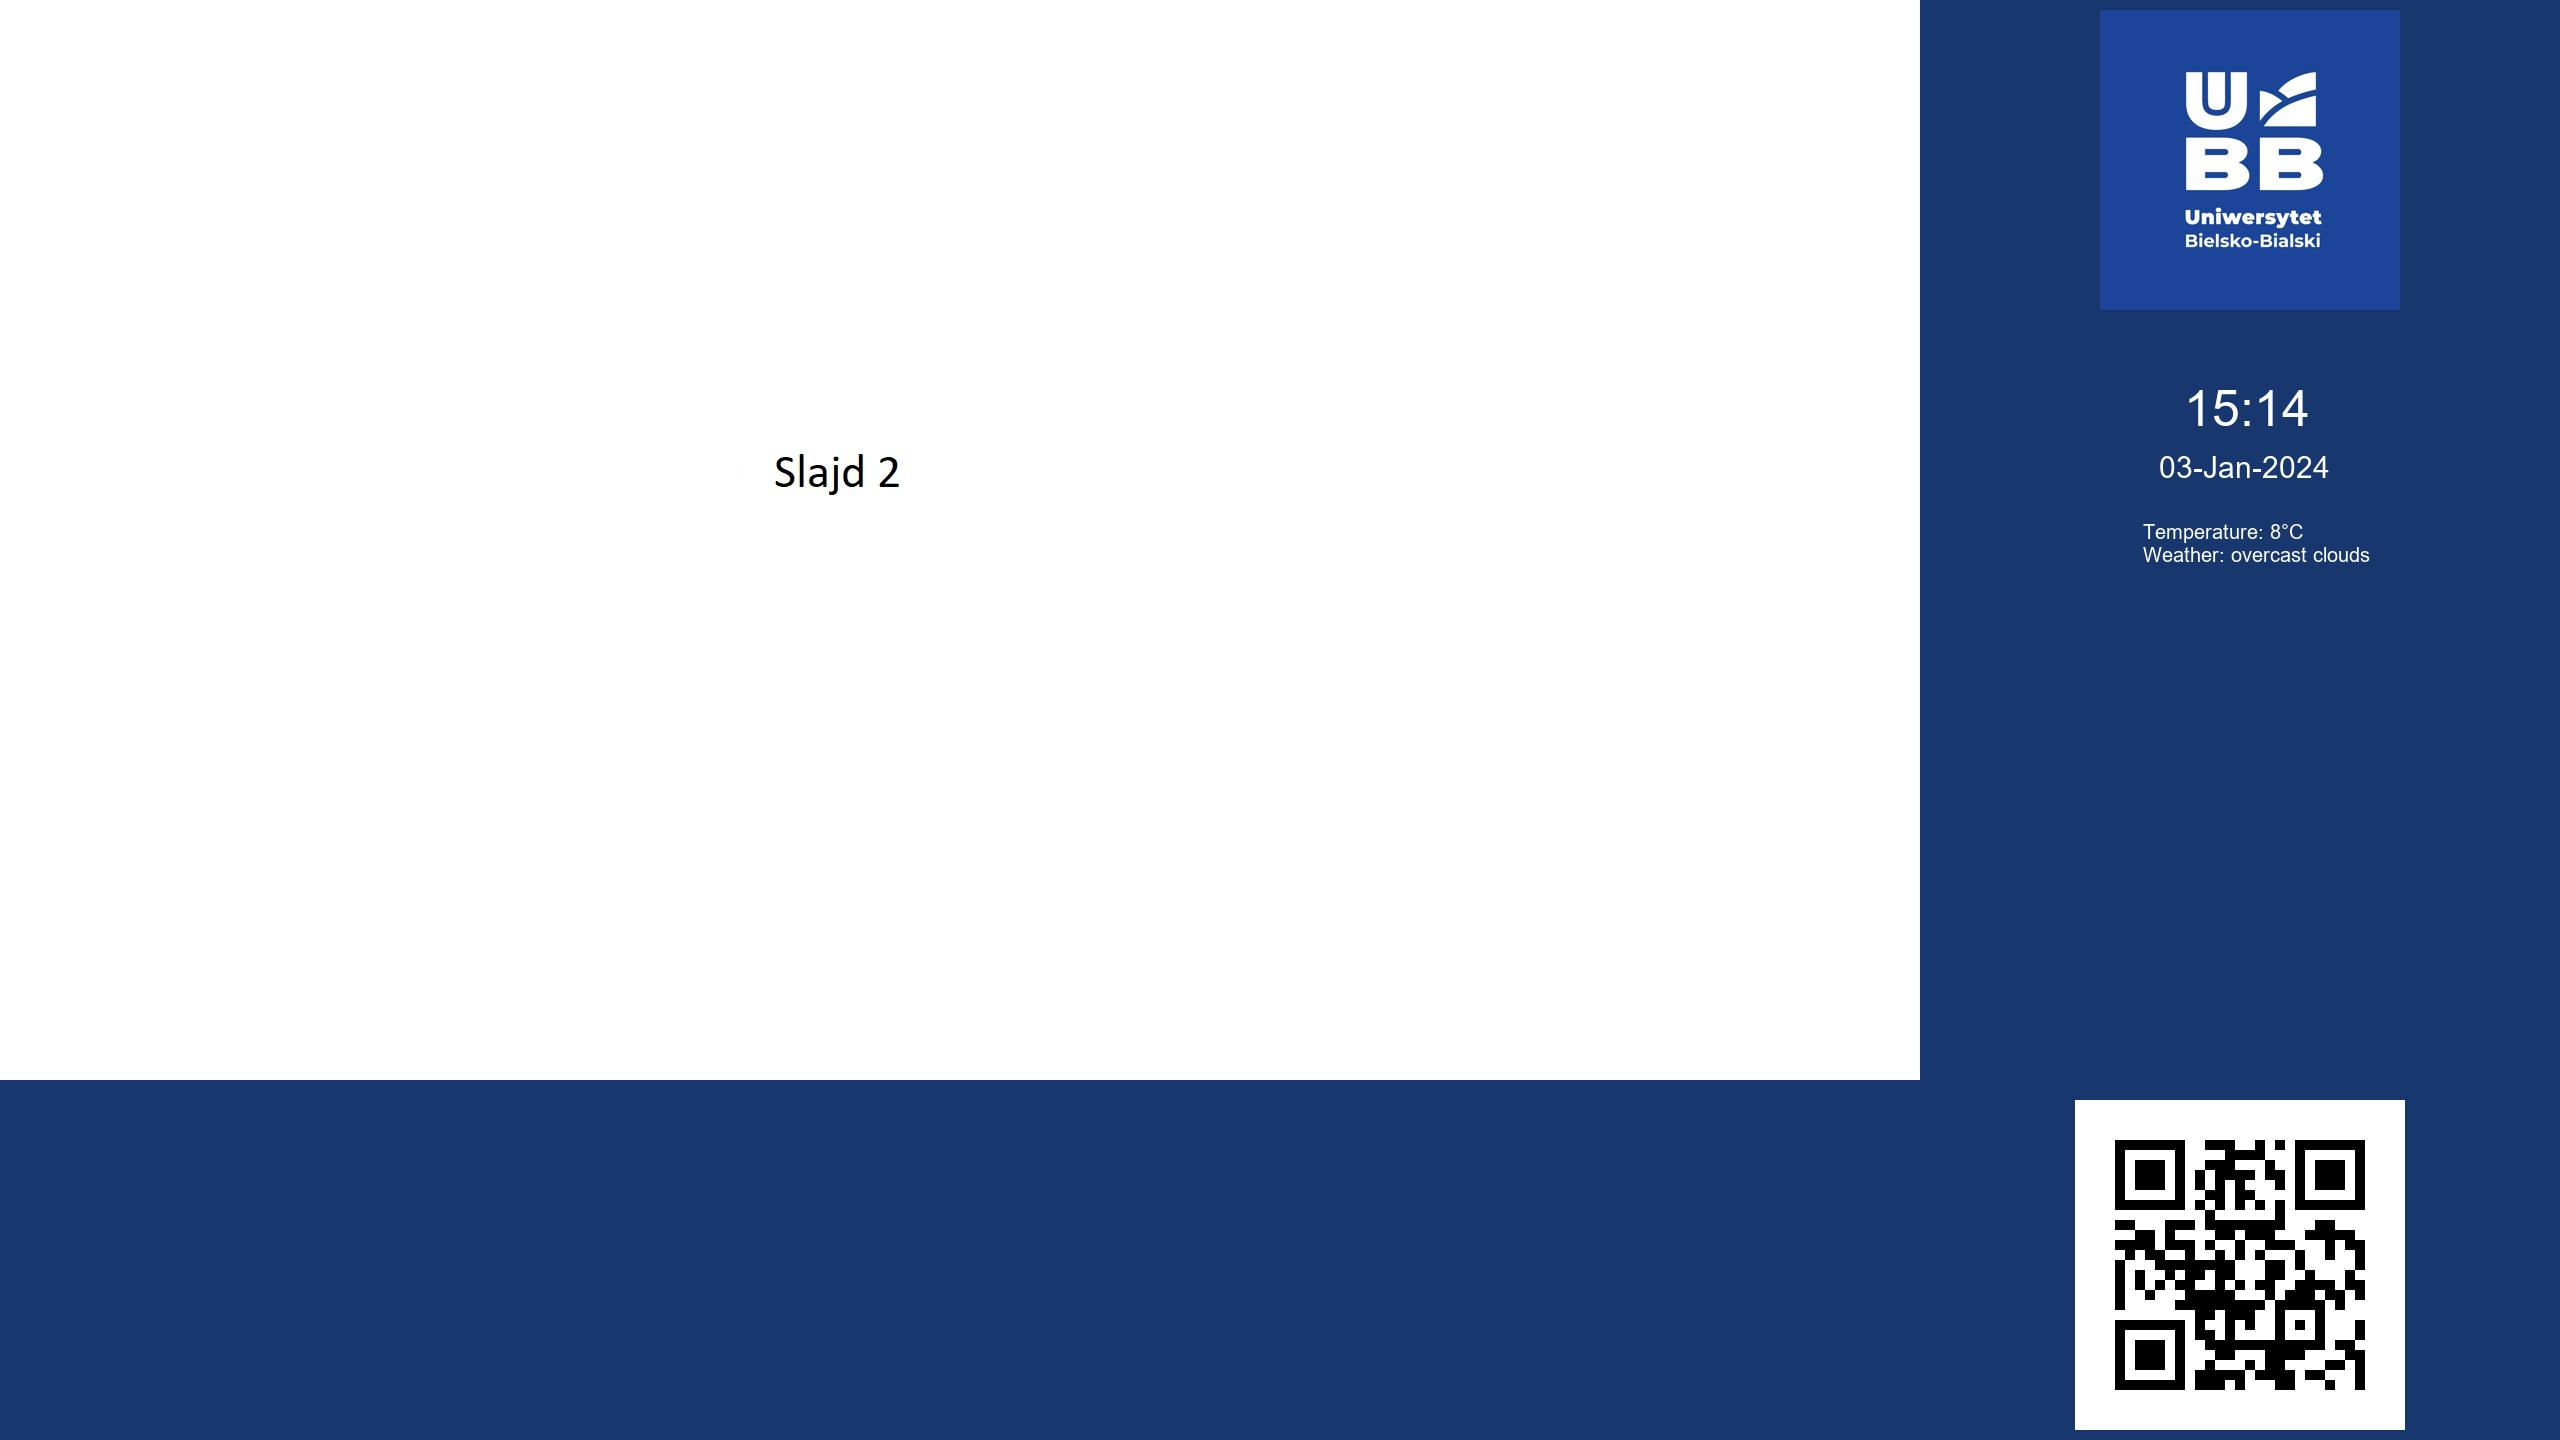
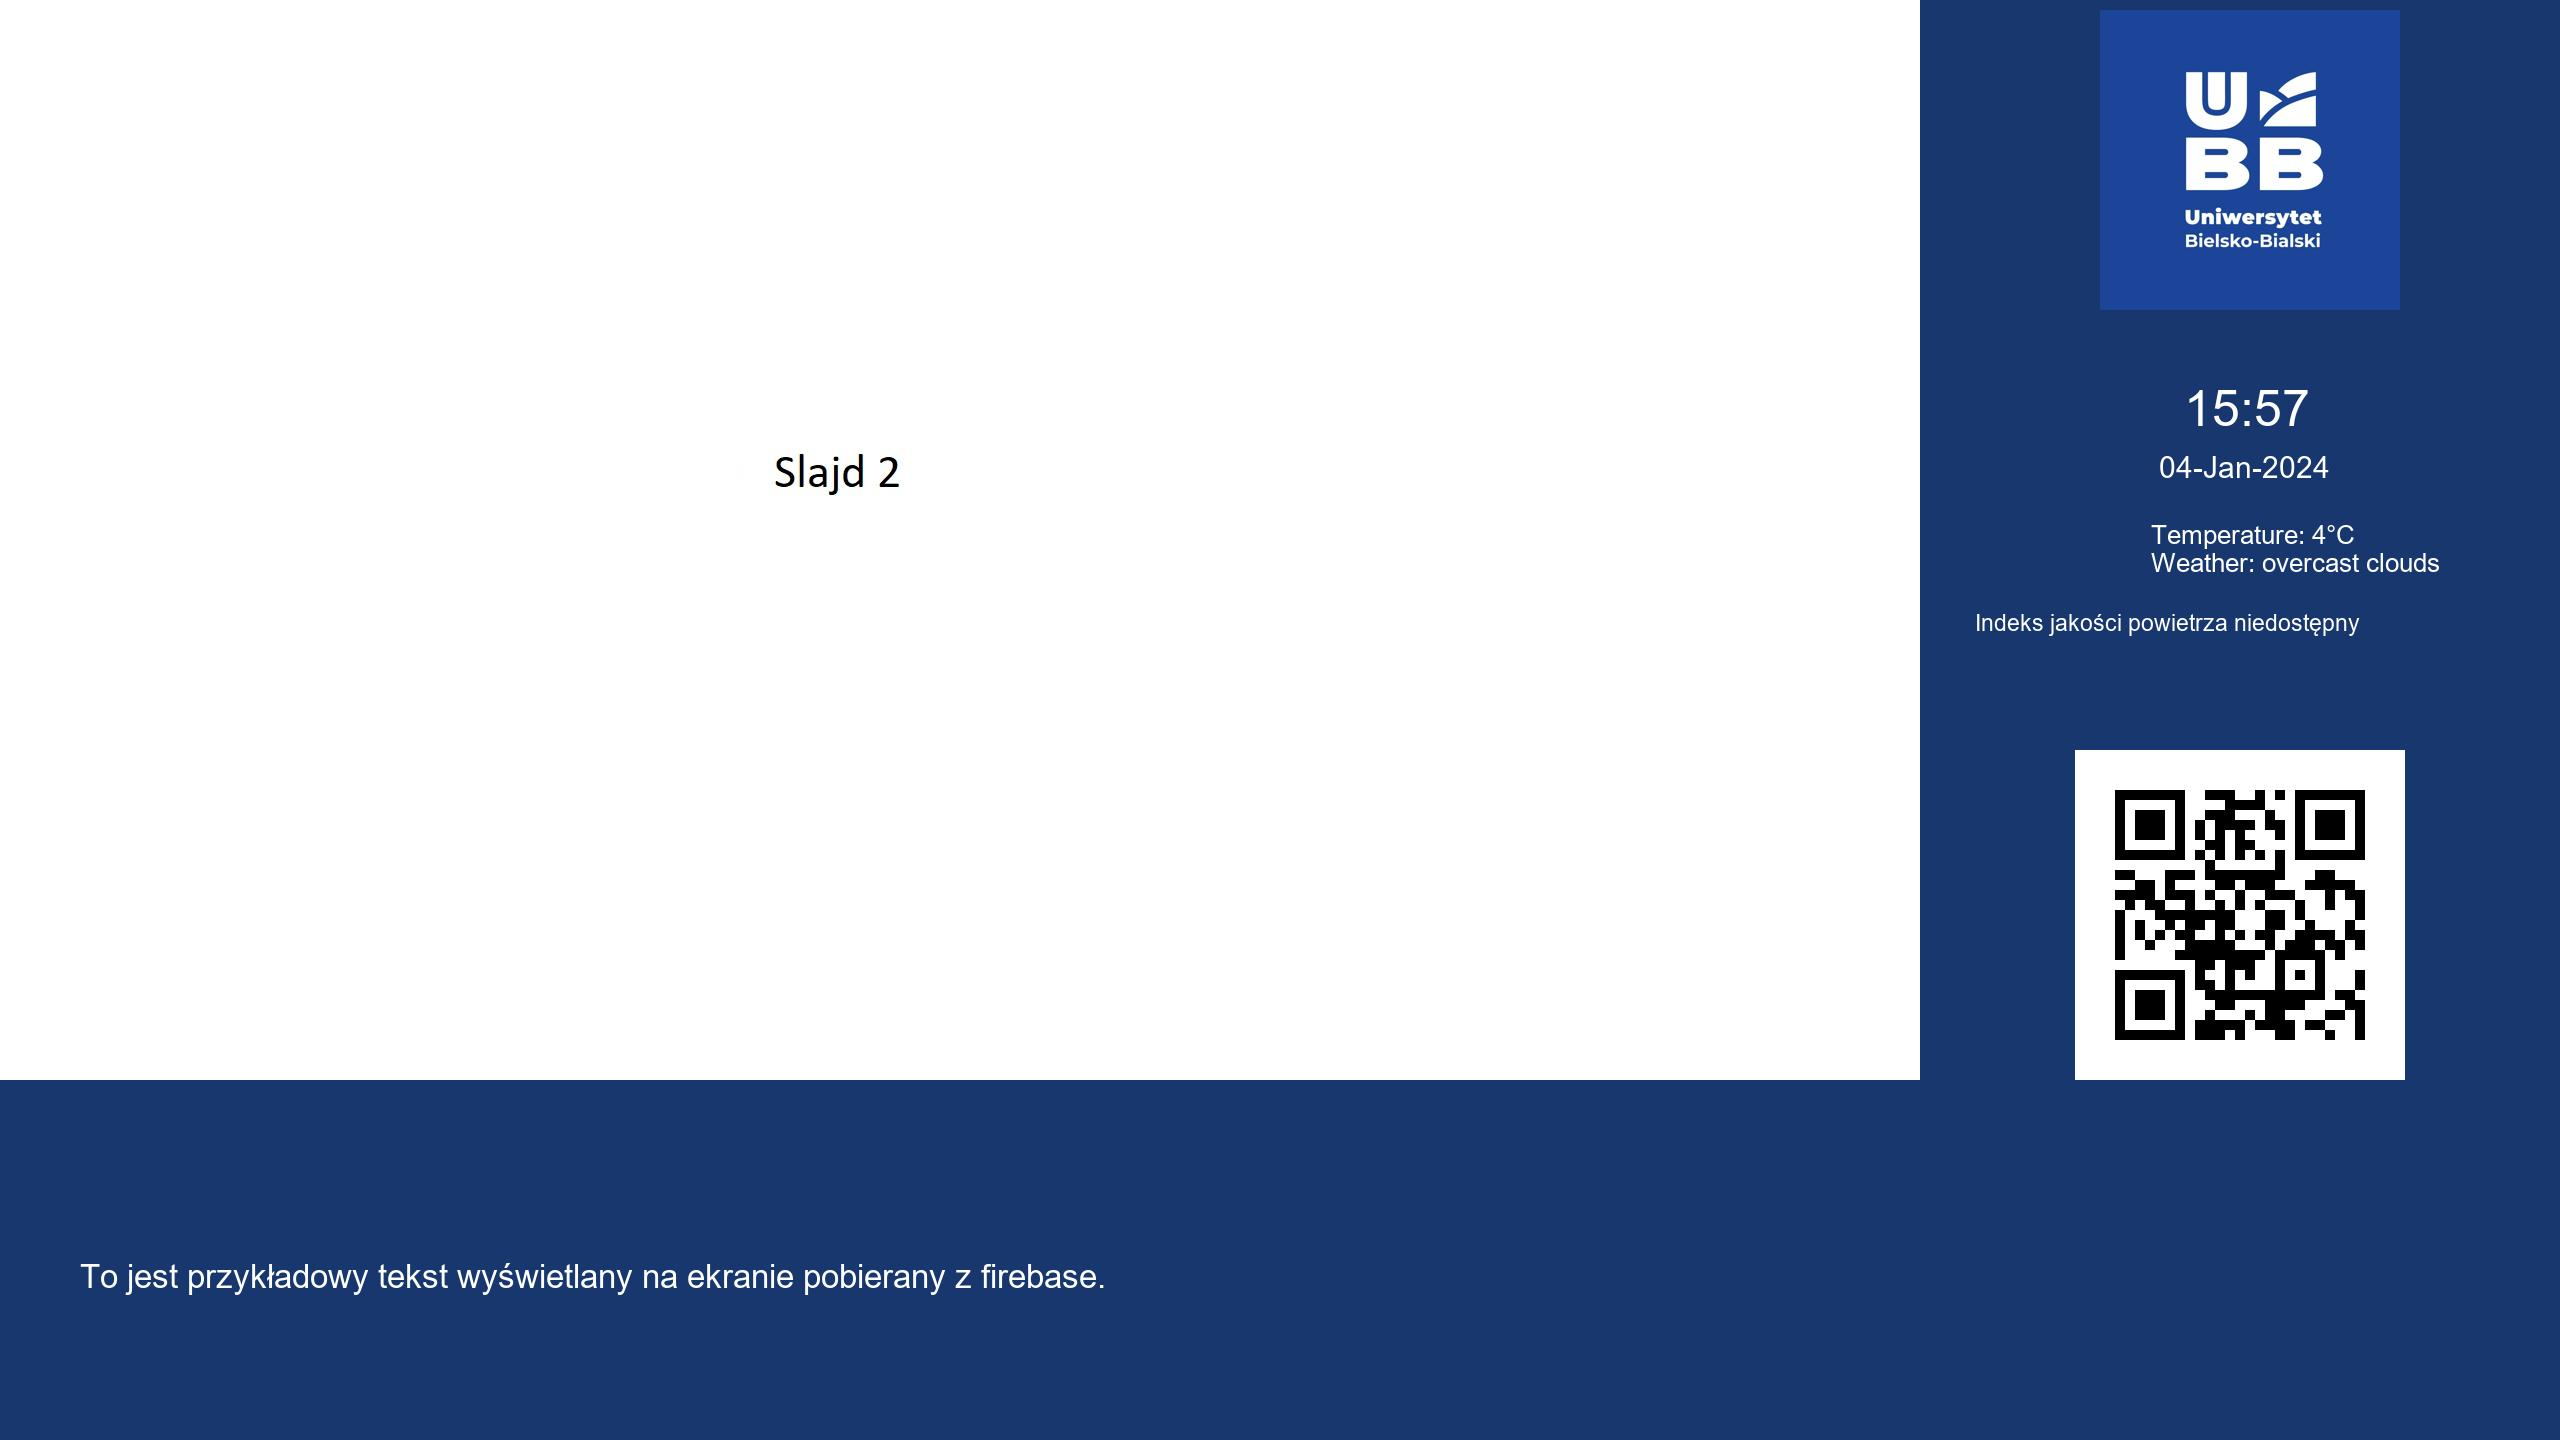
firebase text display + aqi display

diff --git a/project.py b/project.py
@@ -53,6 +53,17 @@ def generate_qr_code(link):
     qr_img = qr.make_image(fill_color="black", back_color="white")
     return qr_img
 
+def download_text_file_from_gcs(object_name):
+    # Local path to save the downloaded text file
+    local_path = os.path.join(local_folder, object_name)
+
+    # Download text file from GCS
+    bucket = client.get_bucket(bucket_name)
+    blob = bucket.blob(object_name)
+    blob.download_to_filename(local_path)
+
+    return local_path
+
 # Pygame initialization
 pygame.init()
 screen = pygame.display.set_mode((2560, 1440))
@@ -76,13 +87,36 @@ def display_image(file_path):
     draw.rectangle([(image.width, 0), (screen.get_width(), screen.get_height())], fill=border_color)
     draw.rectangle([(0, image.height), (screen.get_width(), screen.get_height())], fill=border_color)
 
+    text_file_name = "informationtext.txt"
+    text_file_path = download_text_file_from_gcs(text_file_name)
+
+    if os.path.exists(text_file_path):
+        with open(text_file_path, "r", encoding="utf-8") as text_file:
+            text_content = text_file.read()
+            text_font_size = 33
+            text_font = ImageFont.truetype("arial.ttf", text_font_size)
+            text_bbox = draw.textbbox((0, 0), text_content, font=text_font)
+            text_width, text_height = text_bbox[2] - text_bbox[0], text_bbox[3] - text_bbox[1]
+            padding_left = -240
+            draw.text((border_width + padding_left, screen.get_height() - text_height - 150), text_content, font=text_font, fill="white")
+
+
     # Weather information from OpenWeatherMap API
     weather_text = get_weather_data()
-    font_size = 20
+    font_size = 26
     font = ImageFont.truetype("arial.ttf", font_size)
     weather_text_bbox = draw.textbbox((0, 0), weather_text, font=font)
     weather_text_width, weather_text_height = weather_text_bbox[2] - weather_text_bbox[0], weather_text_bbox[3] - weather_text_bbox[1]
-    draw.text((screen.get_width() - weather_text_width - 190, border_height + 340), weather_text, font=font, fill="white")
+    draw.text((screen.get_width() - weather_text_width - 120, border_height + 340), weather_text, font=font, fill="white")
+
+    #Air quality display from iqair
+    air_quality_data = get_air_quality_data()
+    air_quality_font_size = 23
+    air_quality_font = ImageFont.truetype("arial.ttf", air_quality_font_size)
+    air_quality_text_bbox = draw.textbbox((0, 0), air_quality_data, font=air_quality_font)
+    air_quality_text_width, air_quality_text_height = air_quality_text_bbox[2] - air_quality_text_bbox[0], air_quality_text_bbox[3] - air_quality_text_bbox[1]
+    draw.text((screen.get_width() - air_quality_text_width - 200, border_height + 430), air_quality_data, font=air_quality_font, fill="white")
+
 
     # Time display
     current_time = datetime.now().strftime("%H:%M")
@@ -110,7 +144,7 @@ def display_image(file_path):
     qr_code = generate_qr_code(qr_code_link)
 
     # Paste the QR code onto the composite image
-    composite_image.paste(qr_code, (screen.get_width() - qr_code.width - 460, screen.get_height() - qr_code.height - 10))
+    composite_image.paste(qr_code, (screen.get_width() - qr_code.width - 460, screen.get_height() - qr_code.height - 360))
 
     # Temp image
     result_path = "result.jpg"
@@ -123,20 +157,37 @@ def display_image(file_path):
 
 # OpenWeatherMap API
 def get_weather_data():
-    api_key = '84cea28a50728eb44f7ccde38994cb77'
-    city_name = 'Chrzanów'  
+    api_keyweather = '84cea28a50728eb44f7ccde38994cb77'
+    city_name = 'Bielsko-Biała'  
 
-    api_url = f'http://api.openweathermap.org/data/2.5/weather?q={city_name}&appid={api_key}'
+    api_url = f'http://api.openweathermap.org/data/2.5/weather?q={city_name}&appid={api_keyweather}'
     response = requests.get(api_url)
     data = response.json()
 
-    # Information
+    # Temperature
     if 'main' in data and 'temp' in data['main']:
         temperature = round(data['main']['temp'] - 273.15)
         weather_description = data['weather'][0]['description']
         return f'Temperature: {temperature}°C\nWeather: {weather_description}'
     else:
-        return 'Weather information not available'
+        return 'Prognoza pogody niedostępna'
+    
+#IQWeather api aqi information
+def get_air_quality_data():   
+    api_keyaqi = 'c89a2c3b-7d88-4340-a4a3-1322c7d2d83a'
+    api_url = f'http://api.airvisual.com/v2/city?city=Bielsko-Biala&state=Silesia&country=Poland&key={api_keyaqi}'
+    response = requests.get(api_url)
+    data = response.json()
+    print(data)
+
+    if 'status' in data and data['status'] == 'success':
+        current_data = data.get('data', {}).get('current', {})
+        
+        if 'pollution' in current_data:
+            air_quality_index = current_data['pollution'].get('aqius')
+            return f'Air Quality Index: {air_quality_index}'
+
+    return 'Indeks jakości powietrza niedostępny'
 
 # Main loop
 running = True
